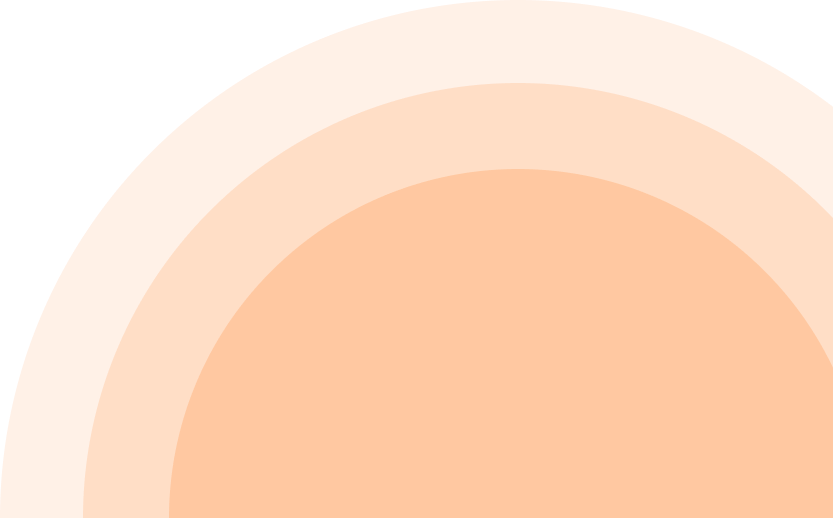
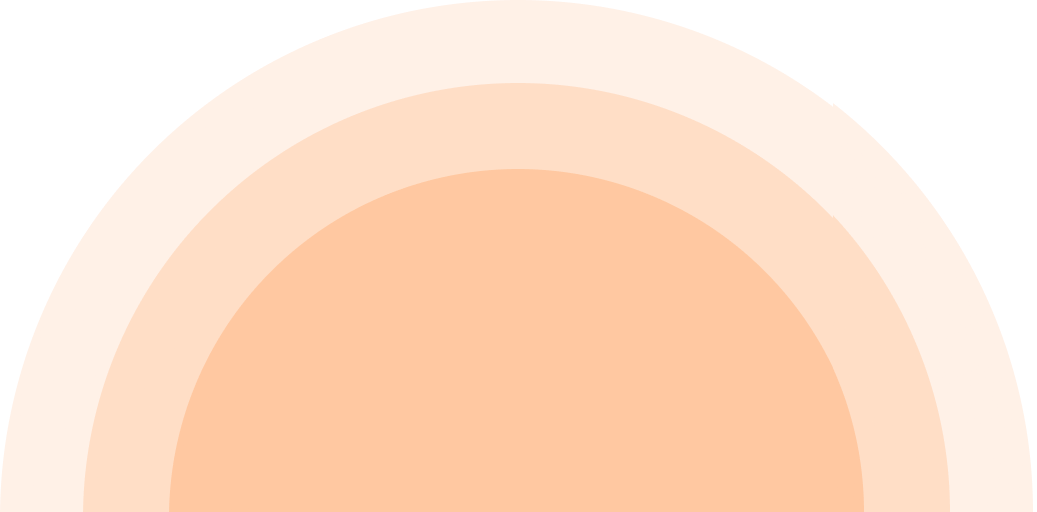
Added Header Section

Changed region(s): [[0.1561, 0.1562, 1.0, 1.0], [0.0624, 0.1562, 0.5306, 1.0]]

diff --git a/styles/portfolio.css b/styles/portfolio.css
@@ -1,0 +1,119 @@
+*{
+    margin: 0;
+    padding: 0;
+    box-sizing: border-box;
+}
+.font-open-sans {
+    font-family: "Open Sans", sans-serif;
+    font-optical-sizing: auto;
+}
+
+header{
+    background-image: url('../images/developer.png'), url('../images/header_bg.png');
+    background-position: 23px 18px, 875px 275px;
+    background-repeat: no-repeat;
+    background-color: #FFF8F3;
+    padding-top: 51px;
+}
+nav{
+    display: flex;
+    width: 70%;
+    max-width: 1600px;
+    margin: 0 auto;
+    justify-content: space-between;
+    align-items: center;
+}
+.logo h2{
+    font-size: 45px;
+    font-weight: 900;
+}
+.logo img{
+    height: 90px;
+}
+.custom-font{
+    color: #FD6E0A;
+}
+.menu{
+    display: flex;
+    align-items: center;
+    gap: 51px;
+}
+.menu li{
+    list-style: none;
+    font-size: 20px;
+}
+.menu li a{
+    text-decoration: none;
+    color: #474747;
+}
+.menu li a:hover{
+    color: #FD6E0A;
+    font-weight: bold;
+}
+.menu button{
+    font-size: 20px;
+    padding: 22px 36px;
+    background-color: #FD6E0A;
+    font-weight: bold;
+    color: white;
+    border: none;
+    border-radius: 5px;
+}
+.menu button:hover{
+    box-shadow: 8px 8px 8px rgba(253, 110, 10, 0.4);
+}
+
+#banner{
+    display: flex;
+    margin: 46px 23px 0 230px;
+    align-items: center;
+    justify-content: space-between;
+}
+#banner .banner-img img{
+    max-width: 930px;
+    vertical-align: middle;
+}
+
+#banner .banner-context{
+    max-width: 585px;
+}
+#banner .banner-context h2{
+    color: #474747;
+    font-size: 45px;
+    font-weight: 600;
+    margin-bottom: 5px;
+}
+#banner .banner-context h1{
+    color: black;
+    font-size: 85px;
+    font-weight: bold;
+    margin-bottom: 20px;
+}
+#banner .banner-context p{
+    color: #757575;
+    font-size: 18px;
+    line-height: 30px;
+    margin-bottom: 30px;
+}
+.buttons{
+    display: flex;
+    gap: 30px;
+}
+.buttons .btn-cv{
+    background-color: #FD6E0A;
+    color: white;
+    font-size: 20px;
+    font-weight: bold;
+    border: none;
+    border-radius: 5px;
+    padding: 19px 24px;
+}
+.buttons .btn-cont{
+    color: #FD6E0A;
+    background-color: #FFF8F3;
+    font-size: 20px;
+    font-weight: bold;
+    border: 1px solid #FD6E0A;
+    border-radius: 5px;
+    padding: 19px 24px;
+}

diff --git a/index.html b/index.html
@@ -5,10 +5,43 @@
     <meta name="viewport"
           content="width=device-width, user-scalable=no, initial-scale=1.0, maximum-scale=1.0, minimum-scale=1.0">
     <meta http-equiv="X-UA-Compatible" content="ie=edge">
-    <link rel="stylesheet" href="./css/style.css">
+    <link rel="stylesheet" href="styles/portfolio.css">
+    <link rel="preconnect" href="https://fonts.googleapis.com">
+    <link rel="preconnect" href="https://fonts.gstatic.com" crossorigin>
+    <link href="https://fonts.googleapis.com/css2?family=Open+Sans:ital,wght@0,300..800;1,300..800&display=swap" rel="stylesheet">
+    <link rel="shortcut icon" href="./images/logo.png" type="image/x-icon">
     <title>Portfolio</title>
 </head>
-<body>
+<body class="font-open-sans">
+<header>
+    <nav>
+        <div class="logo">
+<!--            <h2>Rakibul <span class="custom-font">Huda</span></h2>-->
+            <img src="/images/logo.png" alt="">
+        </div>
+        <ul class="menu">
+            <li><a href="#">Home</a></li>
+            <li><a href="#">Blogs</a></li>
+            <li><button>Contract Me</button></li>
+        </ul>
+    </nav>
+    <section id="banner">
+        <div class="banner-context">
+            <h2>Hello, I'm</h2>
+            <h1>Rakibul <span class="custom-font">H</span>uda</h1>
+            <p>
+                Shot what able cold new see hold.Friendly as a betrayed formerly he. Morning because as to society behaved moments.
+            </p>
+            <div class="buttons">
+                <button class="btn-cv">Download CV</button>
+                <button class="btn-cont">Contact</button>
+            </div>
+        </div>
+        <div class="banner-img">
+            <img src="/images/huda.png" alt="huda-image">
+        </div>
+    </section>
+</header>
 
 </body>
 </html>
